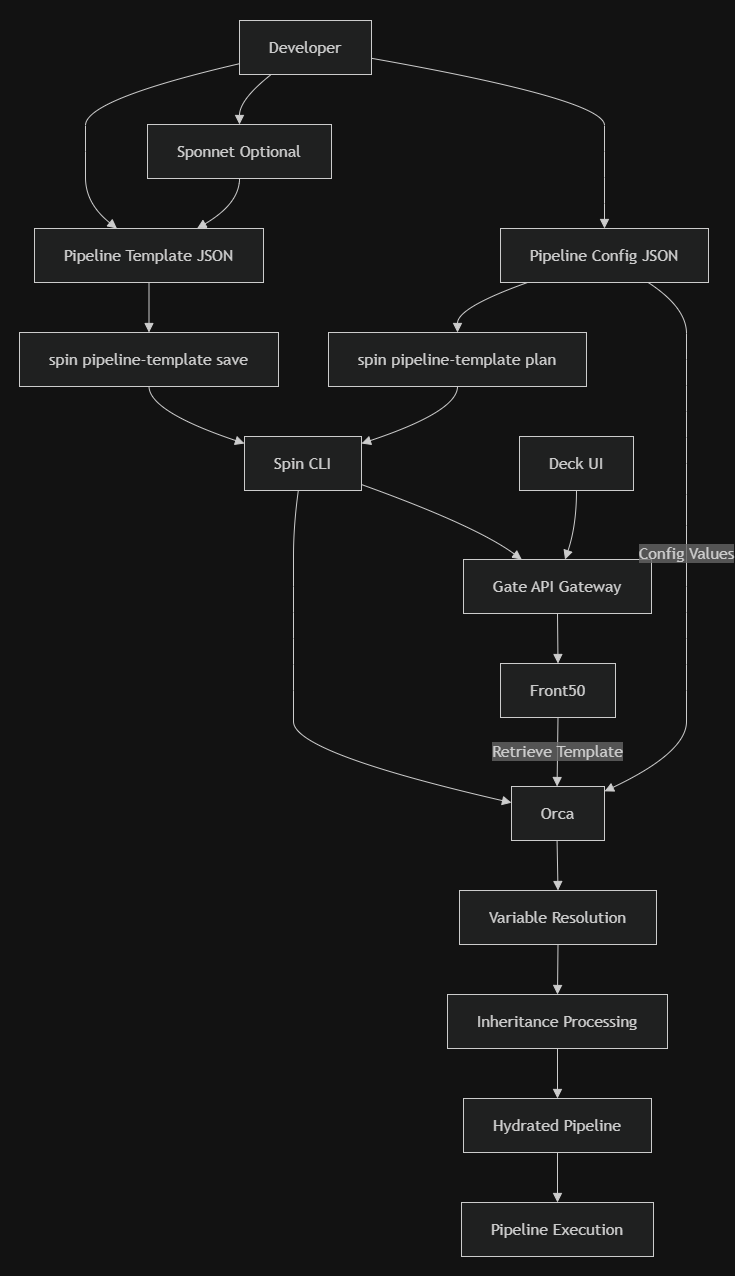
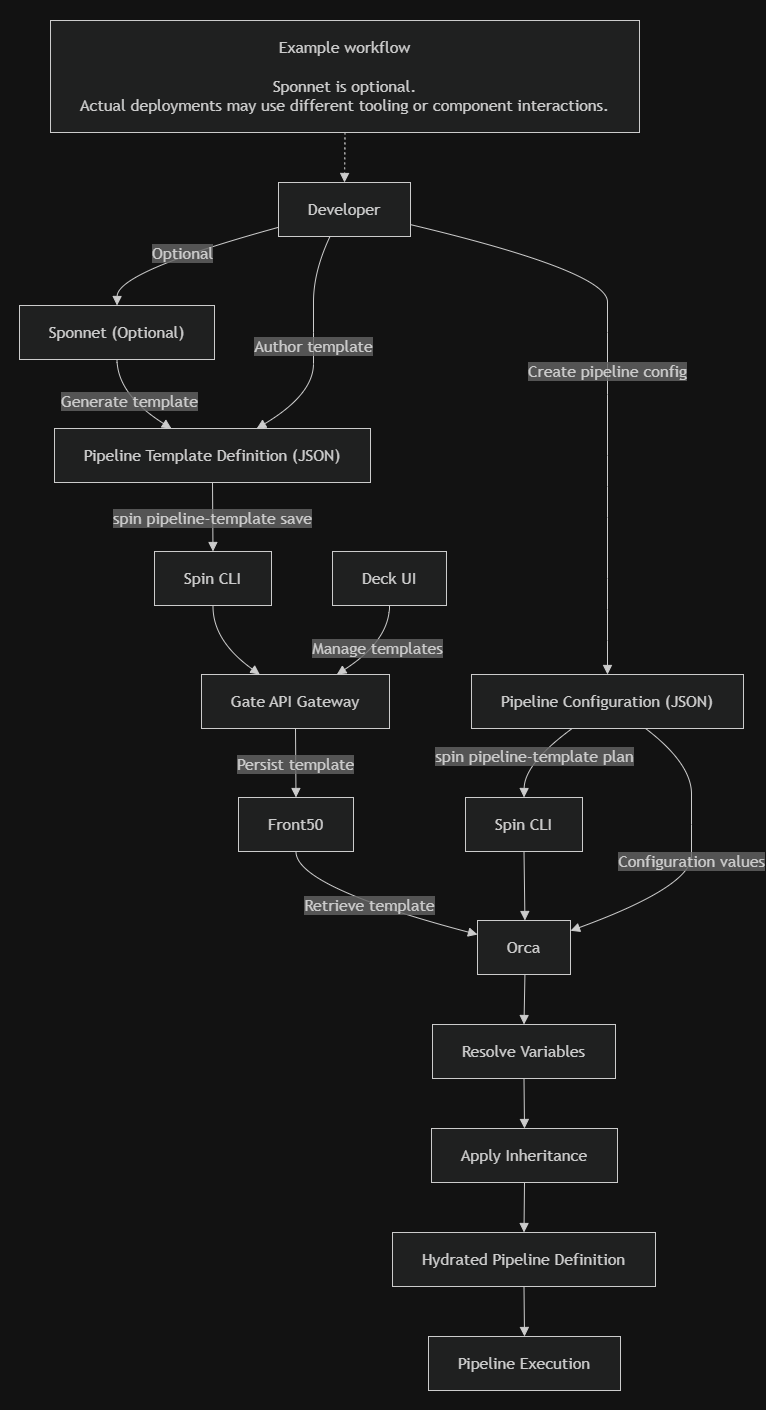
docs: clarify architecture diagram example workflow

diff --git a/content/en/docs/guides/user/pipeline/pipeline-templates/_index.md b/content/en/docs/guides/user/pipeline/pipeline-templates/_index.md
@@ -12,13 +12,11 @@ Spinnaker itself.
 
 Templates can be managed using [spin](/docs/guides/spin/pipeline-templates/) or the UI. To manage templates through the UI, enable the requisite feature flag: `hal config features edit --managed-pipeline-templates-v2-ui true`
 
-## Component Architecture
+The following diagram illustrates one common workflow for Managed Pipeline Templates (MPT v2). Depending on your deployment, enabled features, and tooling, the lifecycle may vary. For example, Sponnet is optional, and templates may be authored or managed using different tools.
 
-The following diagram illustrates the major services involved in the lifecycle of a Managed Pipeline Template (MPT v2), including template authoring, storage, planning, hydration, and execution.
+![Example Managed Pipeline Template v2 workflow](/images/mpt-v2-architecture.png)
 
-![Managed Pipeline Template v2 Architecture](/images/mpt-v2-architecture.png)
-
-The diagram shows how templates are authored directly or generated using Sponnet, managed through the Spin CLI or Deck UI, stored through Gate and Front50, hydrated by Orca, and ultimately executed as pipelines.
+This diagram is intended as an illustrative example rather than the only supported architecture. In this example, templates are authored directly or generated using Sponnet, managed through the Spin CLI or Deck UI, stored through Gate and Front50, hydrated by Orca, and ultimately executed as pipelines.
 
 **Before you begin:**
 